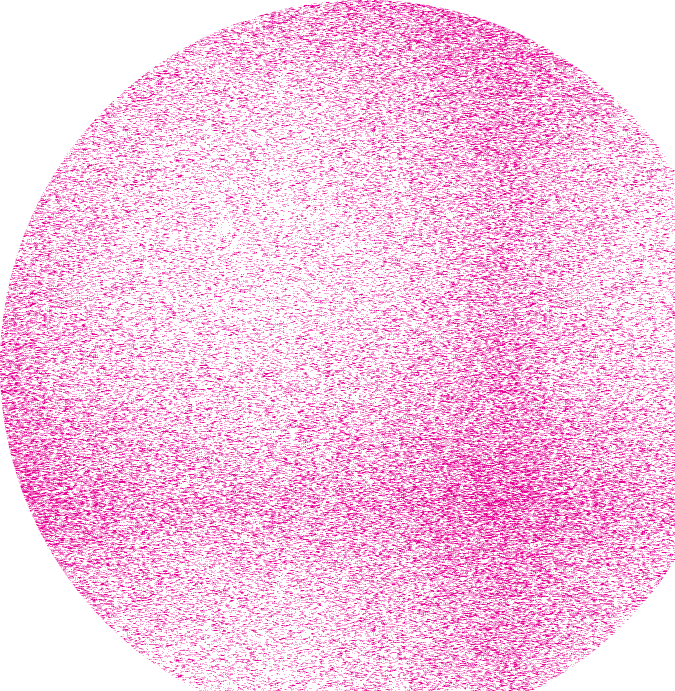
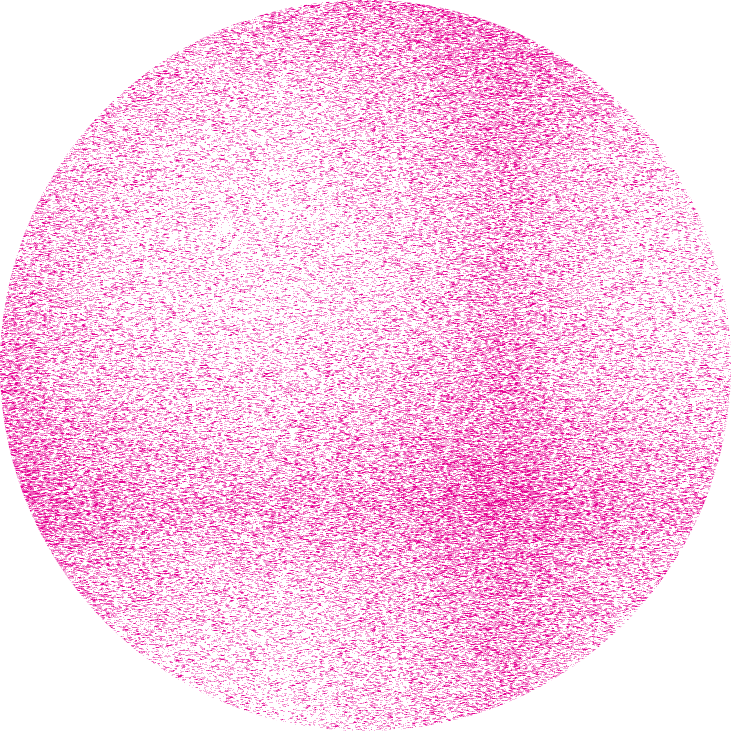
changes

diff --git a/wirz-portfolio/src/section_7/SectionSeven.css b/wirz-portfolio/src/section_7/SectionSeven.css
@@ -1,16 +1,21 @@
+.section-seven-container {
+  height: 100%;
+  width: 100%;
+  display: flex;
+  flex-direction: column;
+}
 .section-seven_ellipse {
-  scale: 0.8;
+  scale: 0.6;
   position: absolute;
   z-index: -4;
-  margin-top: 5vh;
+  margin-top: 10rem;
   opacity: 0;
-  margin-left: 55vw;
+  margin-left: 40rem;
 }
 
 .iphone {
   scale: 0.65;
   position: absolute;
-  margin-top: -20vh;
   opacity: 0;
 }
 
@@ -18,14 +23,19 @@
   color: var(--title-color-blue);
   margin-left: 15vw;
   opacity: 0;
+  margin-bottom: -2rem;
+
+  width: 39rem;
 }
 
 .section-seven_paragraph-section {
   display: flex;
   flex-direction: column;
-  margin-left: 30vw;
-  font-size: 1.4rem;
+  width: 46rem;
+  margin-left: 25rem;
+  font-size: 1.3rem;
   position: absolute;
+  margin-top: 12rem;
 }
 
 .section-seven_paragraph-section :nth-child(1) {
@@ -40,11 +50,14 @@
   display: flex;
   flex-direction: column;
   width: 30vw;
-
   justify-content: center;
   align-items: center;
-  margin-left: 32vw;
-  margin-top: 45vh;
+  left: 0;
+  top: 0;
+  margin-top: 38vh;
+  margin-left: auto;
+  margin-right: auto;
+  padding-bottom: 5rem;
 }
 
 .section-seven_button-section-paragraph {
@@ -80,8 +93,8 @@
 .union {
   position: absolute;
   scale: 0.6;
-  margin-left: 18vw;
-  margin-top: 55vh;
+  margin-left: 16rem;
+  margin-top: 34rem;
   z-index: -3;
   opacity: 0;
   transform: rotate(45deg);

diff --git a/wirz-portfolio/src/section_3/SectionThree.css b/wirz-portfolio/src/section_3/SectionThree.css
@@ -2,12 +2,13 @@
   height: 100%;
   width: 100%;
   /* background-color: aqua; */
+  padding-bottom: 3rem;
 }
 
 .section-three_text-container {
   width: 50vw;
   height: auto;
-  margin-left: 47%;
+  margin-left: 40rem;
   display: flex;
   flex-direction: column;
   align-items: center;
@@ -53,7 +54,7 @@
   height: 26rem;
   width: 41.6rem;
   z-index: -3;
-  margin-left: -40rem;
+  margin-left: -100rem;
 }
 
 .section-three_yummy {
@@ -67,9 +68,9 @@
 
 .section-three_arrow {
   position: absolute;
-  scale: 0.35;
+  scale: 0.4;
   margin-left: 40rem;
-  transform: rotate(100deg) scaleX(-1);
+  transform: rotate(80deg) scaleX(-1);
   opacity: 0;
-  margin-top: -7.5rem;
+  margin-top: -6rem;
 }

diff --git a/wirz-portfolio/src/section_6/SectionSix.css b/wirz-portfolio/src/section_6/SectionSix.css
@@ -1,8 +1,7 @@
 .section-six_container {
-  height: 100vh;
-  width: 100vw;
+  height: 100%;
+  width: 100%;
   display: flex;
-
   padding: 0;
   box-sizing: border-box;
 }
@@ -16,7 +15,7 @@
 
 .section-six_skills-container {
   display: flex;
-  gap: 2rem;
+  gap: 1rem;
   margin-top: 2rem;
   margin-left: auto;
   margin-right: auto;
@@ -37,10 +36,8 @@
 }
 
 .section-six_scale {
-  position: absolute;
-  margin-top: -21rem;
+  margin-top: -6.7rem;
   scale: 0.59;
-  margin-left: 2rem;
   left: -50%;
   opacity: 0;
 }
@@ -65,6 +62,6 @@
   position: absolute;
   scale: 0.6;
   margin-left: 53rem;
-  margin-top: 32rem;
+  margin-top: 28rem;
   opacity: 0;
 }

diff --git a/wirz-portfolio/src/section_6/SectionSix.js b/wirz-portfolio/src/section_6/SectionSix.js
@@ -114,13 +114,12 @@ export const SectionSix = () => {
       </m.h1>
 
       <section className="section-six_skills-container">
-        <section className="section-six_scale-container">
-          <m.img
-            src={scale}
-            className="section-six_scale"
-            animate={animationScale}
-          />
-        </section>
+        <m.img
+          src={scale}
+          className="section-six_scale"
+          animate={animationScale}
+        />
+
         <section className="section-six_skills-design">
           <m.img
             src={photoshop}

diff --git a/wirz-portfolio/src/section_3/SectionThree.js b/wirz-portfolio/src/section_3/SectionThree.js
@@ -11,7 +11,7 @@ import arrow from "./img/arrow-section-three.png";
 
 export const SectionThree = () => {
   const { ref, inView } = useInView({
-    threshold: 0.6, // Adjust the value between 0 and 1 according to when you want the animation to trigger
+    threshold: 0.7, // Adjust the value between 0 and 1 according to when you want the animation to trigger
     triggerOnce: true, // Set to true so the animation only triggers once when the element comes into view
   });
 

diff --git a/wirz-portfolio/src/section_2/SectionTwo.js b/wirz-portfolio/src/section_2/SectionTwo.js
@@ -11,7 +11,7 @@ import { useAnimation } from "framer-motion";
 
 export const SectionTwo = () => {
   const { ref, inView } = useInView({
-    threshold: 0.4, // Adjust the value between 0 and 1 according to when you want the animation to trigger
+    threshold: 0.6, // Adjust the value between 0 and 1 according to when you want the animation to trigger
     triggerOnce: true, // Set to true so the animation only triggers once when the element comes into view
   });
 

diff --git a/wirz-portfolio/src/section_7/SectionSeven.js b/wirz-portfolio/src/section_7/SectionSeven.js
@@ -62,7 +62,7 @@ export const SectionSeven = () => {
   });
 
   return (
-    <div ref={ref}>
+    <div ref={ref} className="section-seven-container">
       <m.h1 className="section-seven_header" animate={animationHeader}>
         Interested?
       </m.h1>

diff --git a/wirz-portfolio/src/section_1/SectionOne.css b/wirz-portfolio/src/section_1/SectionOne.css
@@ -1,7 +1,8 @@
 .section-one_main-container {
   display: flex;
   width: 100%;
-  height: 100vh;
+  height: 100%;
+  padding-bottom: 4rem;
   align-items: center;
   justify-content: space-evenly;
 }

diff --git a/wirz-portfolio/src/section_5/SectionFive.css b/wirz-portfolio/src/section_5/SectionFive.css
@@ -1,6 +1,6 @@
 .section-five_container {
-  height: 100vh;
-  width: 100vw;
+  height: 43rem;
+  width: 100%;
   display: flex;
   flex-direction: column;
 }

diff --git a/wirz-portfolio/src/section_2/SectionTwo.css b/wirz-portfolio/src/section_2/SectionTwo.css
@@ -1,7 +1,6 @@
 .section-two_main-container {
   height: 100%;
   width: 100%;
-  background-color: aquamarine;
 }
 
 .section-two_main-title {

diff --git a/wirz-portfolio/src/section_4/SectionFour.css b/wirz-portfolio/src/section_4/SectionFour.css
@@ -3,7 +3,6 @@
   flex-direction: column;
   height: 100%;
   width: 100%;
-  background-color: azure;
 }
 
 .section-four_title {
